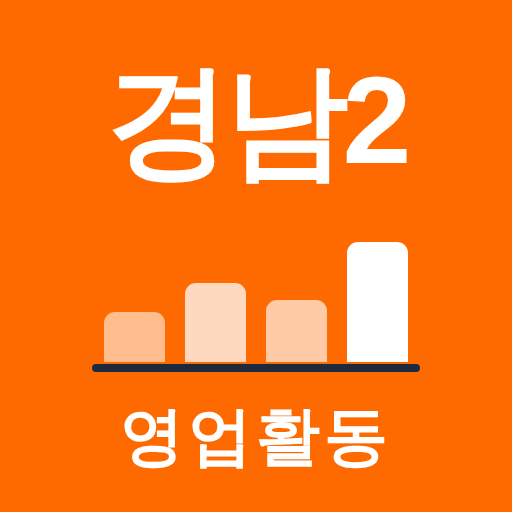
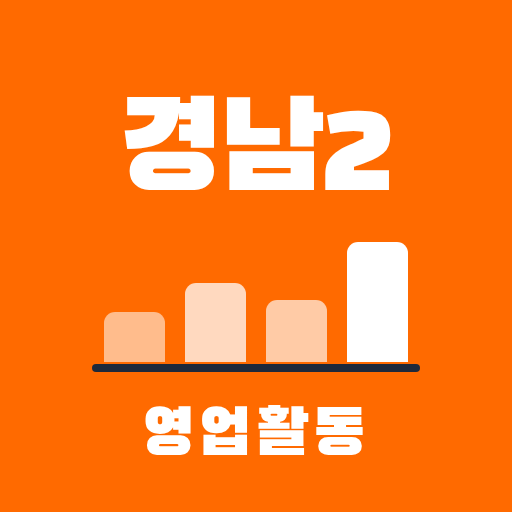
앱 아이콘 글꼴을 Black Han Sans로 변경, '경남2' 위치 조정
Claude-Session: https://claude.ai/code/session_01HzN1eA4Z1yAQ97vUgzzdFx

Changed region(s): [[0.2188, 0.125, 0.8125, 0.375], [0.2188, 0.7812, 0.75, 0.9375]]

diff --git a/index.html b/index.html
@@ -4,9 +4,9 @@
 <meta charset="UTF-8">
 <meta name="viewport" content="width=device-width, initial-scale=1">
 <title>경남2사무소 영업활동 대시보드</title>
-<link rel="manifest" href="manifest.webmanifest?v=2">
-<link rel="icon" type="image/png" sizes="192x192" href="icons/icon-192.png?v=2">
-<link rel="apple-touch-icon" href="icons/apple-touch-icon.png?v=2">
+<link rel="manifest" href="manifest.webmanifest?v=3">
+<link rel="icon" type="image/png" sizes="192x192" href="icons/icon-192.png?v=3">
+<link rel="apple-touch-icon" href="icons/apple-touch-icon.png?v=3">
 <meta name="theme-color" content="#1e293b">
 <meta name="mobile-web-app-capable" content="yes">
 <meta name="apple-mobile-web-app-capable" content="yes">
